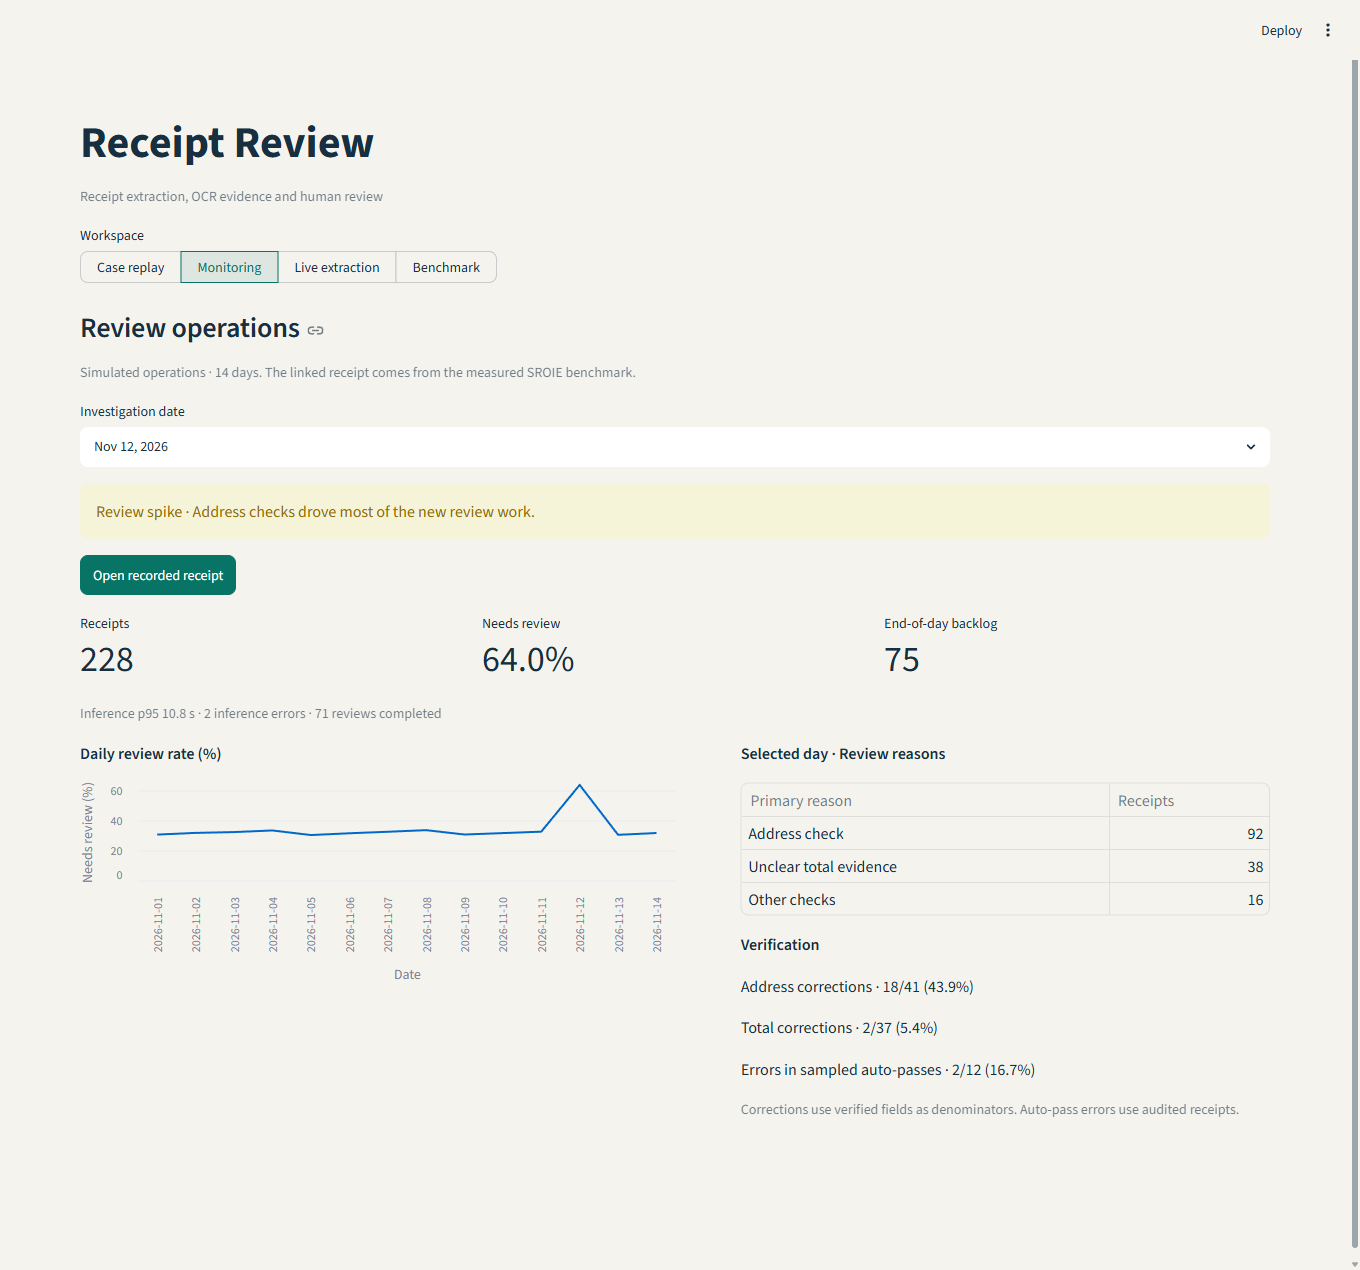
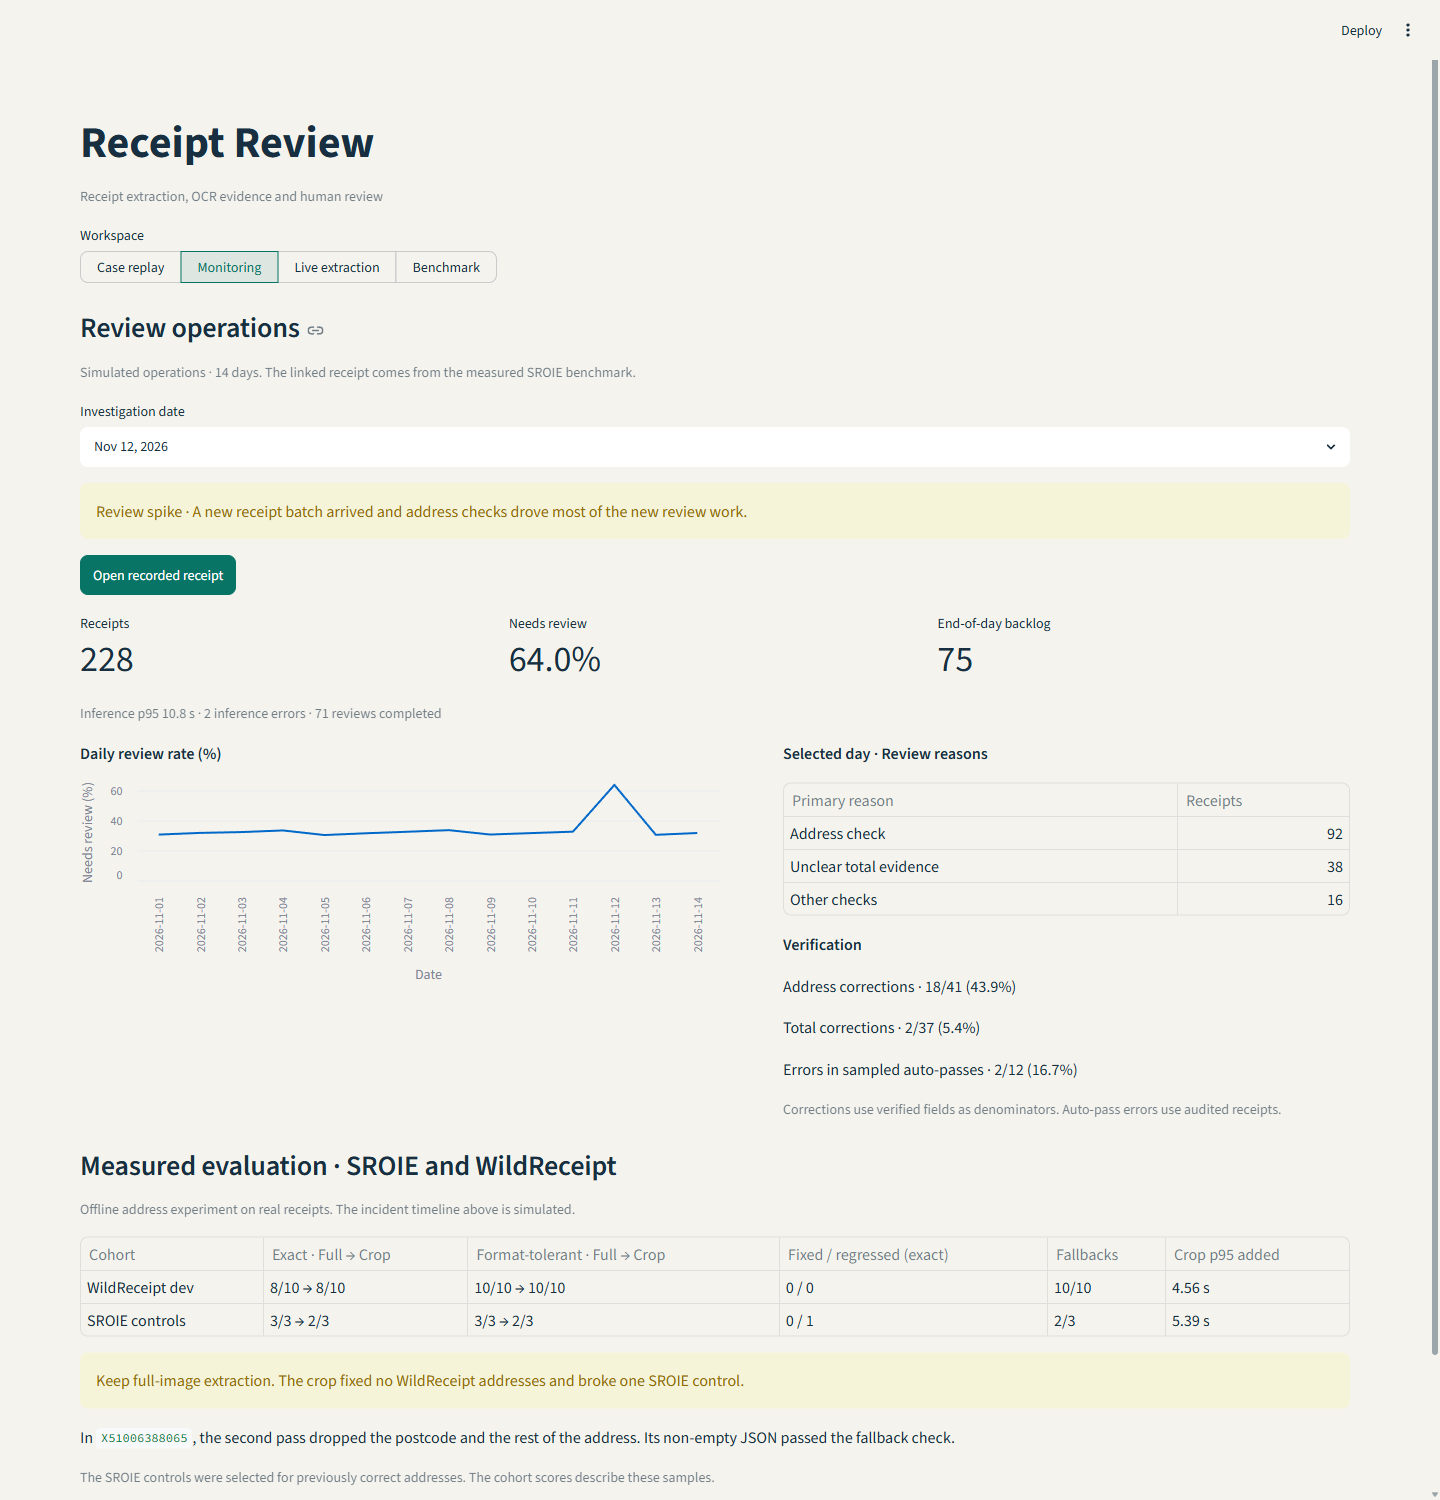
Publish measured WildReceipt experiment and rollout decision

diff --git a/review_app.py b/review_app.py
@@ -29,6 +29,7 @@ METHODS = {"annotated-ocr": "Annotated OCR + rules", "tesseract": "Tesseract + r
            "qwen": "Qwen · checkpoint FP16", "ollama": "Qwen · Ollama quantized"}
 GATE_LABELS = dict(zip(GATES, ("A · Format only", "B · Legacy OCR", "C · Contextual OCR")))
 REPLAY_DIR = PROJECT / "assets" / "replay"
+DRIFT_REPORT = PROJECT / "docs" / "drift-dev-summary.json"
 
 
 def apply_gate(row, gate):
@@ -234,7 +235,13 @@ def prompt_decision():
         {"Receipt": "X51006441474", "Change": "Included the printed Bentong-2 branch header",
          "Result": "Regression"},
     ])
-    st.write("The candidate failed the clean-control check. Keep the original prompt and test a dedicated address crop next.")
+    st.write("The prompt candidate failed the clean-control check. A dedicated address crop was the next experiment.")
+    if DRIFT_REPORT.exists():
+        measured = json.loads(DRIFT_REPORT.read_text(encoding="utf-8"))
+        if measured["advance"]:
+            st.caption("WildReceipt crop follow-up · Passed development. Hold rollout until the external holdout is scored.")
+        else:
+            st.caption("WildReceipt crop follow-up · Hold rollout. The paired crop did not pass development.")
 
 
 def monitoring_view():
@@ -246,7 +253,7 @@ def monitoring_view():
                             format_func=lambda day: day.strftime("%b %d, %Y"), key="monitor_day")
     row = by_day[selected]
     if selected == INCIDENT_DAY:
-        st.warning("Review spike · Address checks drove most of the new review work.")
+        st.warning("Review spike · A new receipt batch arrived and address checks drove most of the new review work.")
         st.button("Open recorded receipt", type="primary", on_click=navigate, args=("Case replay", True),
                   help="Recorded SROIE benchmark example linked to illustrate the simulated incident.")
     ops = st.columns(3)
@@ -268,6 +275,38 @@ def monitoring_view():
         st.write(f"Total corrections · {verification_text(*row['total_edits'])}")
         st.write(f"Errors in sampled auto-passes · {verification_text(*row['auto_pass_audit'])}")
         st.caption("Corrections use verified fields as denominators. Auto-pass errors use audited receipts.")
+    if selected == INCIDENT_DAY:
+        drift_evaluation()
+
+
+def drift_evaluation():
+    st.subheader("Measured evaluation · SROIE and WildReceipt")
+    st.caption("Offline address experiment on real receipts. The incident timeline above is simulated.")
+    if not DRIFT_REPORT.exists():
+        st.info("The datasets and labels are prepared. Paired GPU results are pending.")
+        return
+    report = json.loads(DRIFT_REPORT.read_text(encoding="utf-8"))
+    comparison = []
+    for cohort, label in (("wildreceipt", "WildReceipt dev"), ("sroie", "SROIE controls")):
+        summary = report["metrics"][cohort]
+        exact = summary["exact"]
+        tolerant = summary["format_tolerant"]
+        n = summary["documents"]
+        comparison.append({
+            "Cohort": label, "Exact · Full → Crop": f"{exact['baseline']}/{n} → {exact['candidate']}/{n}",
+            "Format-tolerant · Full → Crop": f"{tolerant['baseline']}/{n} → {tolerant['candidate']}/{n}",
+            "Fixed / regressed (exact)": f"{exact['fixed']} / {exact['regressed']}",
+            "Fallbacks": f"{summary['fallbacks']}/{n}",
+            "Crop p95 added": f"{summary['added_ms']['p95'] / 1000:.2f} s",
+        })
+    st.table(comparison)
+    if report["advance"]:
+        st.info("Advance to holdout. Keep the current pipeline while the sealed test runs.")
+    else:
+        st.warning("Keep full-image extraction. The crop fixed no WildReceipt addresses and broke one SROIE control.")
+        st.write(f"In `{report['regression_id']}`, the second pass dropped the postcode and the rest of the address. "
+                 "Its non-empty JSON passed the fallback check.")
+    st.caption("The SROIE controls were selected for previously correct addresses. The cohort scores describe these samples.")
 
 
 def new_receipt():

diff --git a/drift_experiment.py b/drift_experiment.py
@@ -95,6 +95,18 @@ def audited_rows(manifest, audit, stage):
     return {"wildreceipt": external, "sroie": selected["sroie"]}
 
 
+def holdout_allowed(dev, manifest):
+    provenance = dev["provenance"]
+    expected_ids = [row["id"] for domain in ("wildreceipt", "sroie")
+                    for row in manifest["cohorts"]["dev"][domain]]
+    return (dev["stage"] == "dev" and dev["advance"] is True
+            and provenance["archive_sha256"] == manifest["archive_sha256"]
+            and provenance["model_revision"] == REVISION and provenance["crop_prompt"] == CROP_PROMPT
+            and provenance["baseline_prompt_text"] == PROMPT and provenance["crop_fraction"] == CROP_FRACTION
+            and provenance["max_pixels"] == MAX_PIXELS and list(provenance["cases"]) == expected_ids
+            and [row["key"] for row in dev["receipts"]] == expected_ids)
+
+
 def evaluate(wild, sroie, manifest, audit, stage, output):
     selected = audited_rows(manifest, audit, stage)
     by_id = {row["id"]: row for rows in selected.values() for row in rows}
@@ -144,9 +156,13 @@ def main():
     parser.add_argument("--sroie", required=True, type=Path)
     parser.add_argument("--manifest", required=True, type=Path)
     parser.add_argument("--audit", type=Path)
+    parser.add_argument("--dev-report", type=Path)
     parser.add_argument("--stage", choices=("prepare", "dev", "holdout"), required=True)
     parser.add_argument("--output", type=Path)
     args = parser.parse_args()
+    inputs = {path.resolve() for path in (args.wild, args.sroie)}
+    if args.manifest.resolve() in inputs:
+        parser.error("The manifest path must be separate from the input archives")
     hashes = {"wildreceipt": sha256_file(args.wild), "sroie": sha256_file(args.sroie)}
     if hashes != {"wildreceipt": WILD_SHA, "sroie": ARCHIVE_SHA}:
         parser.error("Unexpected source archive SHA-256")
@@ -158,9 +174,22 @@ def main():
             return
         if not args.audit or not args.output or args.output.suffix != ".json":
             parser.error("Evaluation requires --audit and --output with a .json suffix")
+        inputs.update(path.resolve() for path in (args.manifest, args.audit, args.dev_report) if path)
+        checkpoint = args.output.with_suffix(".sqlite3")
+        if {args.output.resolve(), checkpoint.resolve()} & inputs:
+            parser.error("The report and checkpoint must be separate from the inputs")
+        if args.output.exists() and not checkpoint.exists():
+            parser.error("The output exists without its checkpoint. Use a fresh output path.")
         manifest = json.loads(args.manifest.read_text(encoding="utf-8"))
-        if manifest["archive_sha256"] != hashes or manifest["cohorts"] != cohorts(wild, sroie):
+        if (manifest["archive_sha256"] != hashes or manifest["label_rule"] != RULE
+                or manifest["cohorts"] != cohorts(wild, sroie)):
             parser.error("Manifest differs from the deterministic archive selection")
+        if args.stage == "holdout" and (
+            not args.dev_report or not holdout_allowed(
+                json.loads(args.dev_report.read_text(encoding="utf-8")), manifest
+            )
+        ):
+            parser.error("Holdout requires a passing --dev-report from the same experiment")
         audit = json.loads(args.audit.read_text(encoding="utf-8"))
         args.output.parent.mkdir(parents=True, exist_ok=True)
         evaluate(wild, sroie, manifest, audit, args.stage, args.output)

diff --git a/tests/test_drift.py b/tests/test_drift.py
@@ -5,7 +5,9 @@ import pytest
 from PIL import Image
 
 from drift_data import is_duplicate, reading_order
-from drift_experiment import CROP_PROMPT, audited_rows, score, stats
+from benchmark_receipts import REVISION
+from drift_experiment import CROP_FRACTION, CROP_PROMPT, audited_rows, decision, holdout_allowed, score, stats
+from receipt_pipeline import MAX_PIXELS, PROMPT
 
 
 def test_reading_order_and_duplicate_filter():
@@ -41,3 +43,24 @@ def test_audit_does_not_silently_score_unverified_addresses():
     manifest = {"cohorts": {"dev": {"wildreceipt": [{"id": "external"}], "sroie": []}}}
     with pytest.raises(ValueError, match="Missing verified address"):
         audited_rows(manifest, {}, "dev")
+
+
+def test_holdout_gate_requires_matching_passing_development_evidence():
+    manifest = {"archive_sha256": {"wildreceipt": "digest"},
+                "cohorts": {"dev": {"wildreceipt": [{"id": "a"}], "sroie": [{"id": "b"}]}}}
+    dev = {"stage": "dev", "advance": True, "receipts": [{"key": "a"}, {"key": "b"}],
+           "provenance": {"archive_sha256": manifest["archive_sha256"], "model_revision": REVISION,
+                          "crop_prompt": CROP_PROMPT, "baseline_prompt_text": PROMPT,
+                          "crop_fraction": CROP_FRACTION, "max_pixels": MAX_PIXELS, "cases": {"a": {}, "b": {}}}}
+    assert holdout_allowed(dev, manifest)
+    assert not holdout_allowed({**dev, "advance": False}, manifest)
+    dev["provenance"]["crop_fraction"] = 0.5
+    assert not holdout_allowed(dev, manifest)
+
+
+def test_development_rejects_a_regressed_control_even_when_external_improves():
+    external = {"exact": {"baseline": 4, "candidate": 5}, "format_tolerant": {"fixed": 1}}
+    controls = {"documents": 3, "exact": {"baseline": 3, "regressed": 0}}
+    assert decision("dev", external, controls)
+    controls["exact"]["regressed"] = 1
+    assert not decision("dev", external, controls)

diff --git a/docs/drift.md b/docs/drift.md
@@ -1,0 +1,42 @@
+# Cross-dataset address evaluation
+
+This experiment checks an address crop on receipts from a new source. The Streamlit incident timeline is a simulated operations scenario. The SROIE case it opens illustrates a known address error from a measured run. WildReceipt is evaluated separately.
+
+## Prepare the cohorts
+
+Download the [original WildReceipt archive](https://mmocr.readthedocs.io/en/latest/user_guides/data_prepare/kie.html) and the [SROIE v4 ZIP](evaluation.md#reproduce) into `work/`. The runner verifies both archive hashes. It reads the original class mapping, groups address boxes into lines, and sorts within lines from left to right. Selection uses the SHA-256 order of split-qualified IDs and skips repeated normalized merchant names, identical image bytes, and close 64-bit difference hashes at similar aspect ratios. This heuristic can miss merchant aliases and recompressed duplicates.
+
+```bash
+python drift_experiment.py --wild work/wildreceipt.tar --sroie work/sroie-kaggle.zip --manifest work/drift/manifest.json --stage prepare
+```
+
+The manifest locks 10 WildReceipt train receipts and three correct SROIE controls for development, followed by 50 WildReceipt test receipts and 20 SROIE regression samples. Inspect the address spans and related lines in the original scans before running inference. Supply a local `dev-audit.json` mapping each WildReceipt dev ID to its transcribed, verified merchant address. Use printed word boundaries, exclude a standalone branch or legal heading, and keep street numbers, slashes and postal codes. The original annotation remains in the manifest for provenance. Audit all selected holdout addresses before opening their predictions. A missing audit entry aborts evaluation.
+
+## Run on CUDA
+
+Use the pinned GPU requirements and the official Qwen2.5-VL checkpoint on a CUDA runtime that can hold FP16 weights. Keep the SQLite checkpoint and rerun the exact command if interrupted.
+
+```bash
+python drift_experiment.py --wild work/wildreceipt.tar --sroie work/sroie-kaggle.zip --manifest work/drift/manifest.json --audit work/drift/dev-audit.json --stage dev --output work/drift/dev.json
+```
+
+The full-image prompt produces all four fields. The second pass reads the top 45% of the original scan at its native resolution before resizing to the configured maximum. The crop uses image dimensions. An unusable crop output falls back to the full-image address. Company, date and total remain the full-image prediction. Metrics report strict and format-tolerant address matches, fixes, regressions, fallback count and added latency. The benchmark targets address only.
+
+Advance to `--stage holdout --dev-report work/drift/dev.json` with audited holdout labels and a fresh report path only if dev fixes at least one format-tolerant error, preserves the strict score, and keeps all three SROIE controls correct. Propose shadow evaluation only after a strict improvement on the new domain and no aggregate regression on SROIE, with measured latency in the decision. The selected SROIE controls check for regressions on known cases. Their score does not estimate the size of the difference between domains.
+
+## Measured result
+
+Qwen2.5-VL-7B-Instruct ran in FP16 on two Kaggle Tesla T4 GPUs. The candidate includes fallback to the full-image result whenever the crop provides no usable address.
+
+| Cohort | Exact, full → candidate | Format-tolerant, full → candidate | Fallbacks | Crop p95 added |
+| --- | ---: | ---: | ---: | ---: |
+| WildReceipt dev | 8/10 → 8/10 | 10/10 → 10/10 | 10/10 | 4.56 s |
+| SROIE controls | 3/3 → 2/3 | 3/3 → 2/3 | 2/3 | 5.39 s |
+
+All 12 fallbacks were missing crop addresses. The one crop address accepted by the fallback rule was a regression. On SROIE `X51006388065`, it stopped at `TAMAN BERKELEY` and dropped the postcode and remaining locality text. The result was valid JSON with an incomplete address. The two WildReceipt exact misses both matched after formatting normalization.
+
+**Decision: keep full-image extraction.** The fixed crop repaired zero addresses, regressed on one control and added inference time. The 50 WildReceipt holdout receipts and 20 SROIE regression receipts remained unevaluated, and the candidate did not proceed to shadow. Cohort IDs, runtime, model revision and source hashes are in the [measured run summary](drift-dev-summary.json).
+
+## Interpret the change
+
+The domains can differ in layout, language, scan quality and annotation conventions. A score difference alone does not identify a cause. Diagnose individual errors against the image. If the business changes the address definition to require the branch header, version the label policy and re-score under that policy. That is a change in what counts as a correct output.

diff --git a/README.md b/README.md
@@ -1,6 +1,6 @@
 # Qwen Receipt Review
 
-**The total was correct. The receipt still needed a closer look.**
+**What changed when a new receipt batch arrived?**
 
 ![Recorded SROIE receipt with OCR evidence for 23.80 and an address missing the shopping gallery. Gate C passes the record.](assets/case-replay.png)
 
@@ -17,13 +17,14 @@ python -m streamlit run review_app.py
 
 In **Case replay**, select **Investigate the review spike**. The walkthrough runs on CPU with bundled assets.
 
-1. **Detect the spike.** On November 12, the simulated review rate rises to 64.0%. Reviewers correct 18 of 41 verified addresses, while total corrections stay at 2 of 37 verified amounts. An audit of auto-passes finds 2 incorrect records in a sample of 12.
+1. **Detect the spike.** A simulated new batch arrives on November 12 and the review rate rises to 64.0%. Reviewers correct 18 of 41 verified addresses, while total corrections stay at 2 of 37 verified amounts. An audit of auto-passes finds 2 incorrect records in a sample of 12.
 2. **Inspect the receipt.** Open the linked SROIE example. OCR supports `23.80`. Switch from gate B to C and watch the decision change to auto-pass even though the model omitted the shopping gallery from the address.
-3. **Decide whether to ship.** In a measured ten-receipt development test, the candidate prompt removed an extra `AEON SHAH ALAM` line on one receipt and added the `Bentong-2` branch header to a previously correct address. Exact address match stayed at 3/10. The candidate failed the clean-control check, so the original prompt stayed in place. [Experiment result](docs/evaluation.md#result-on-ten-diagnostic-receipts)
+3. **Test the recovery plan.** Run full-image Qwen and a second pass over the top 45% of each receipt. On 10 WildReceipt dev scans, both pipelines matched 8/10 exactly and 10/10 after formatting normalization. The crop fell back on all 10 scans. [Cross-dataset protocol and measured result](docs/drift.md#measured-result)
+4. **Make the rollout call.** Keep full-image extraction. The crop output omitted part of a previously correct SROIE address, taking the control score from 3/3 to 2/3. The change added 4.56 seconds at p95 on WildReceipt. The holdout and rollout stayed closed. [Measured run summary](docs/drift-dev-summary.json)
 
-![Monitoring tab labeled Simulated operations, with the November 12 spike selected and a button to open the recorded receipt.](assets/monitoring-incident.png)
+![Monitoring dashboard with the simulated review spike, measured WildReceipt and SROIE results, and the decision to keep full-image extraction.](assets/monitoring-incident.png)
 
-The daily workload and audit counts are simulated. The linked scan, predictions, and A/B result come from recorded Qwen runs.
+The daily workload and audit counts are simulated. The linked scan, predictions and paired comparison come from recorded Qwen runs.
 
 ## Input and output
 
